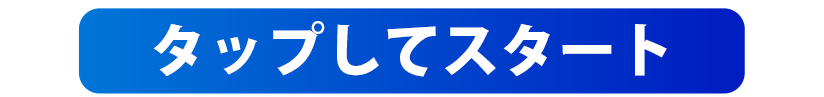
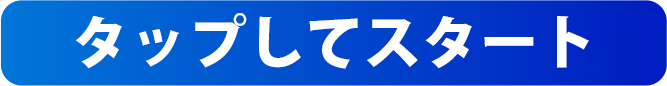
change btn

diff --git a/mainpageStyle.css b/mainpageStyle.css
@@ -12,7 +12,12 @@
         background: #001EC1;
         background: linear-gradient(0deg,rgba(0, 30, 193, 1) 0%, rgba(0, 118, 216, 1) 100%);
       }
-      
+
+      .logo{
+        width: 100%;
+        margin: auto;
+      }
+
       .page-wrapper {
         display: flex;
         align-content: center;
@@ -108,29 +113,11 @@
         margin-top: 10px;
       }
 
-      .arword {
-        display: block;
-        align-content: center;
-        width:268px;
-        margin: auto;
-
-      }
-
-      .arword a:hover{
-        color: #1311f1;
-      }
-
-      .armenu-mainpage {
-        color: white;
-      }
-
       .armenu-mainpage img{
-        width: 321px;
+        margin-top: 29px;
+        width: 285px;
       }
 
-      .armenu-mainpage:hover {
-        color: #006d9d;
-      }
 
       .qrcode {
           margin-top: 0px;

diff --git a/main.html b/main.html
@@ -30,13 +30,14 @@
             <div class="catalog">
               <img src="icon/ARMainLogo.png" >
             </div>
+            <div class="armenu-mainpage">
+              <img src="icon/tapbtn.png">
+            </div>
           </div>
         </div>
       </div>
       
-      <a class="armenu-mainpage">
-        <img src="icon/tapbtn.png"  class="arword" >
-      </a>
+      
     </div>
   </div>
 
